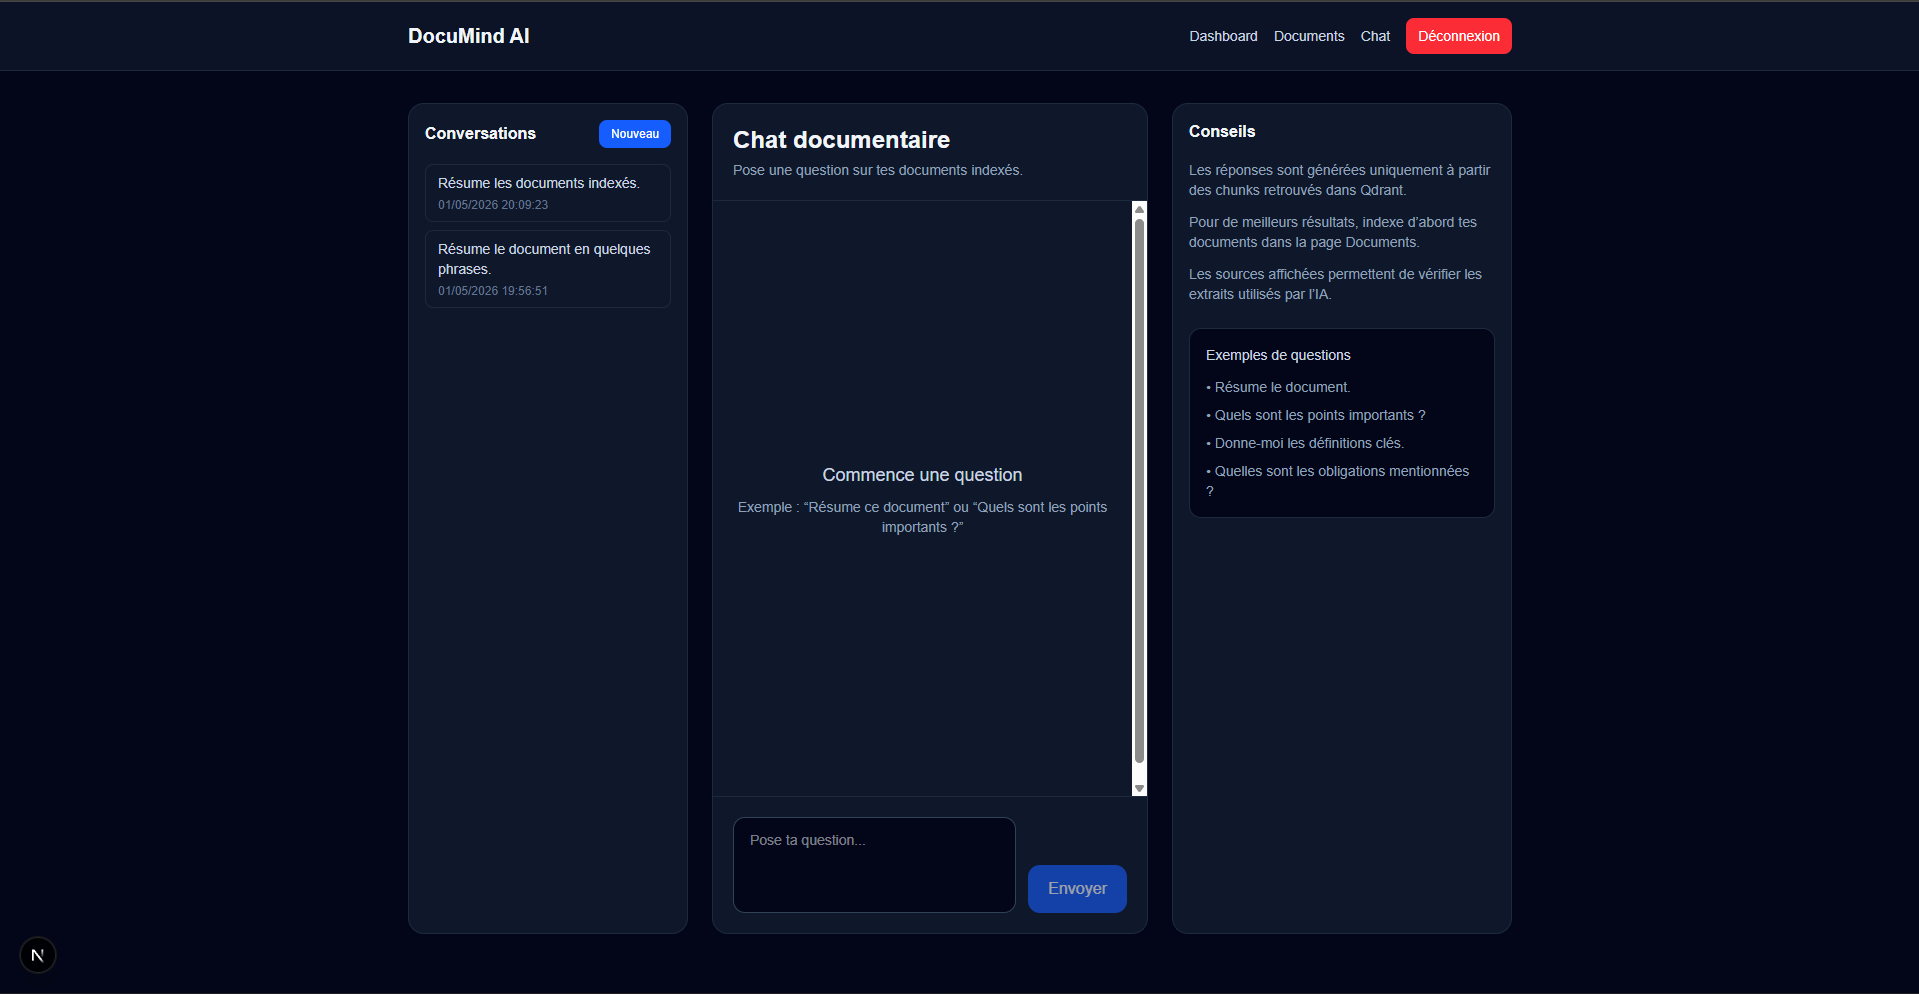
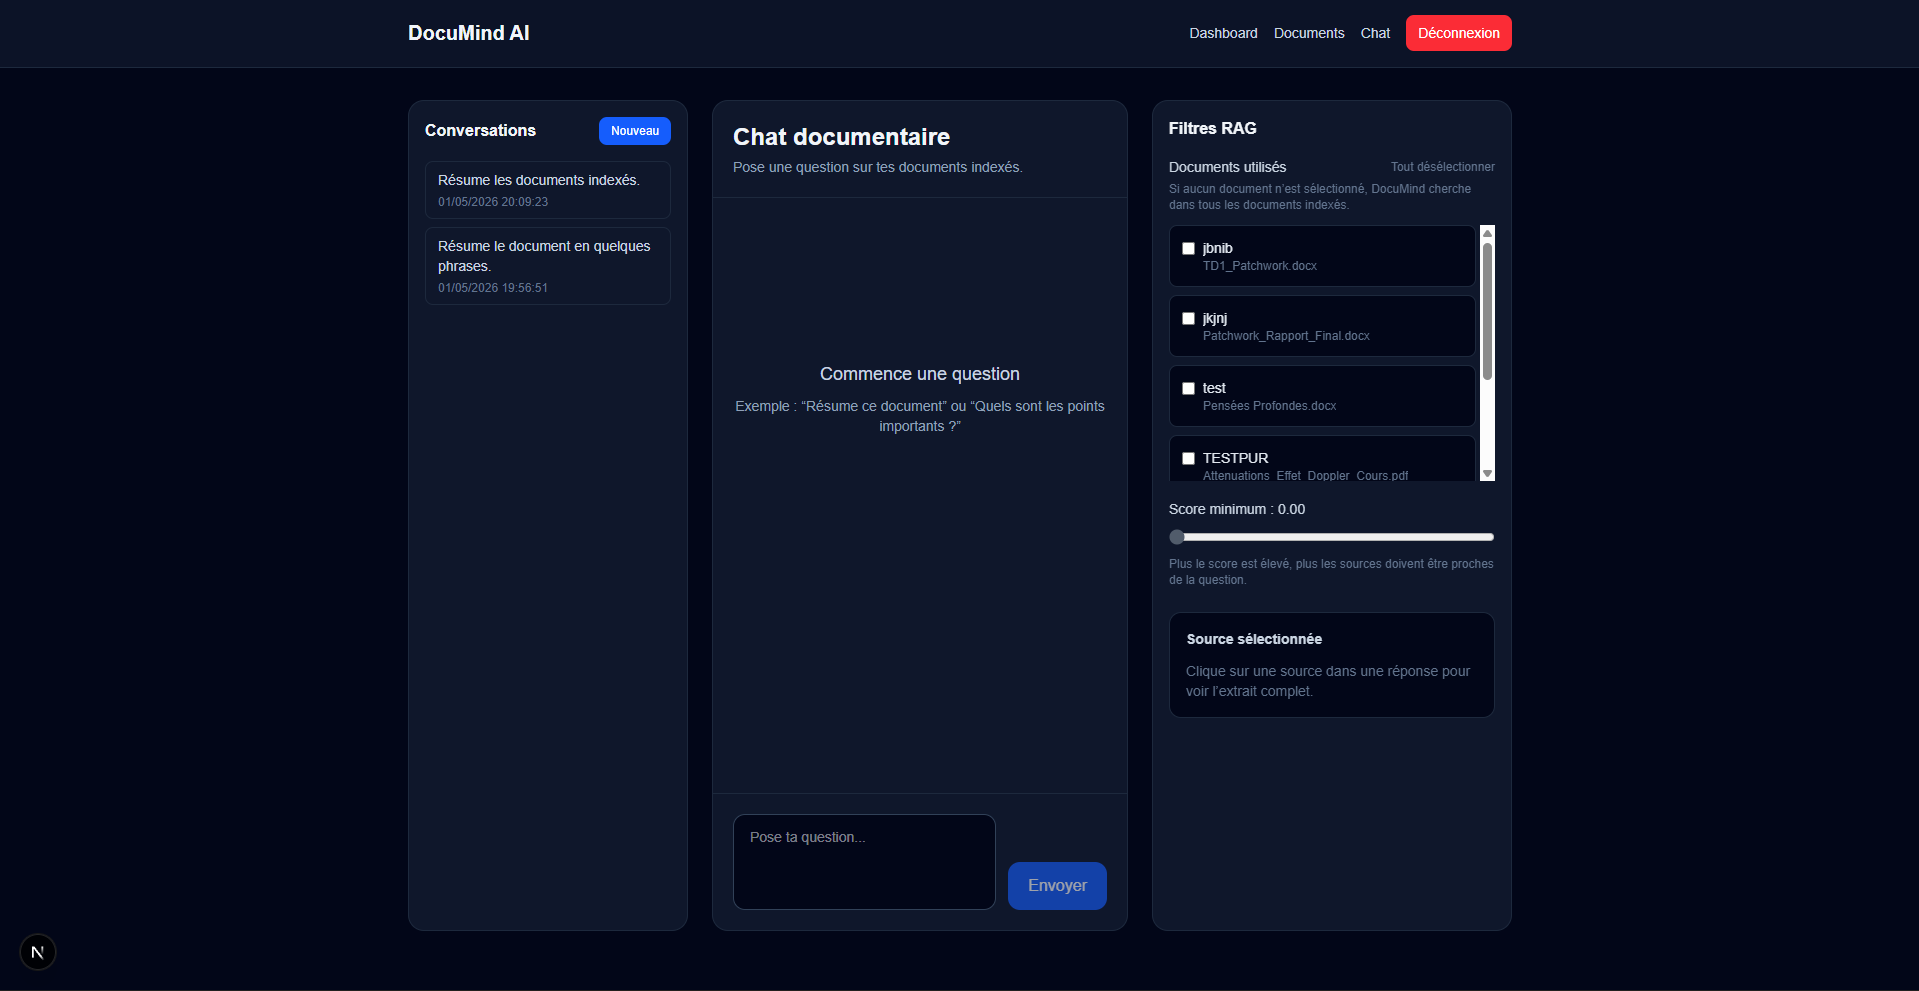
docs: add project screenshots

diff --git a/README.md b/README.md
@@ -71,7 +71,6 @@ https://clementdupouypaulin.com/DocuMindAI/
 
 ## Architecture
 
-```txt
 DocuMind AI
 │
 ├── apps/
@@ -83,3 +82,29 @@ DocuMind AI
 ├── .github/workflows/        # CI/CD
 ├── docker-compose.yml
 └── README.md
+
+## Main Screens
+
+### Landing page
+
+Page publique présentant DocuMind AI, son objectif, sa stack et les fonctionnalités principales.
+
+![Landing page](docs/screenshots/landing.png)
+
+### Dashboard
+
+Dashboard analytique affichant les métriques principales de l’espace utilisateur : documents, chunks, conversations, messages et erreurs d’indexation.
+
+![Dashboard](docs/screenshots/dashboard.png)
+
+### Documents
+
+Page de gestion documentaire permettant d’uploader, indexer, réindexer, supprimer et suivre le statut des documents PDF, DOCX et TXT.
+
+![Documents](docs/screenshots/documents.png)
+
+### Chat RAG
+
+Interface de chat documentaire avec filtres RAG, sélection des documents, score minimum, réponses sourcées et visualisation des extraits utilisés.
+
+![Chat RAG](docs/screenshots/chat.png)
